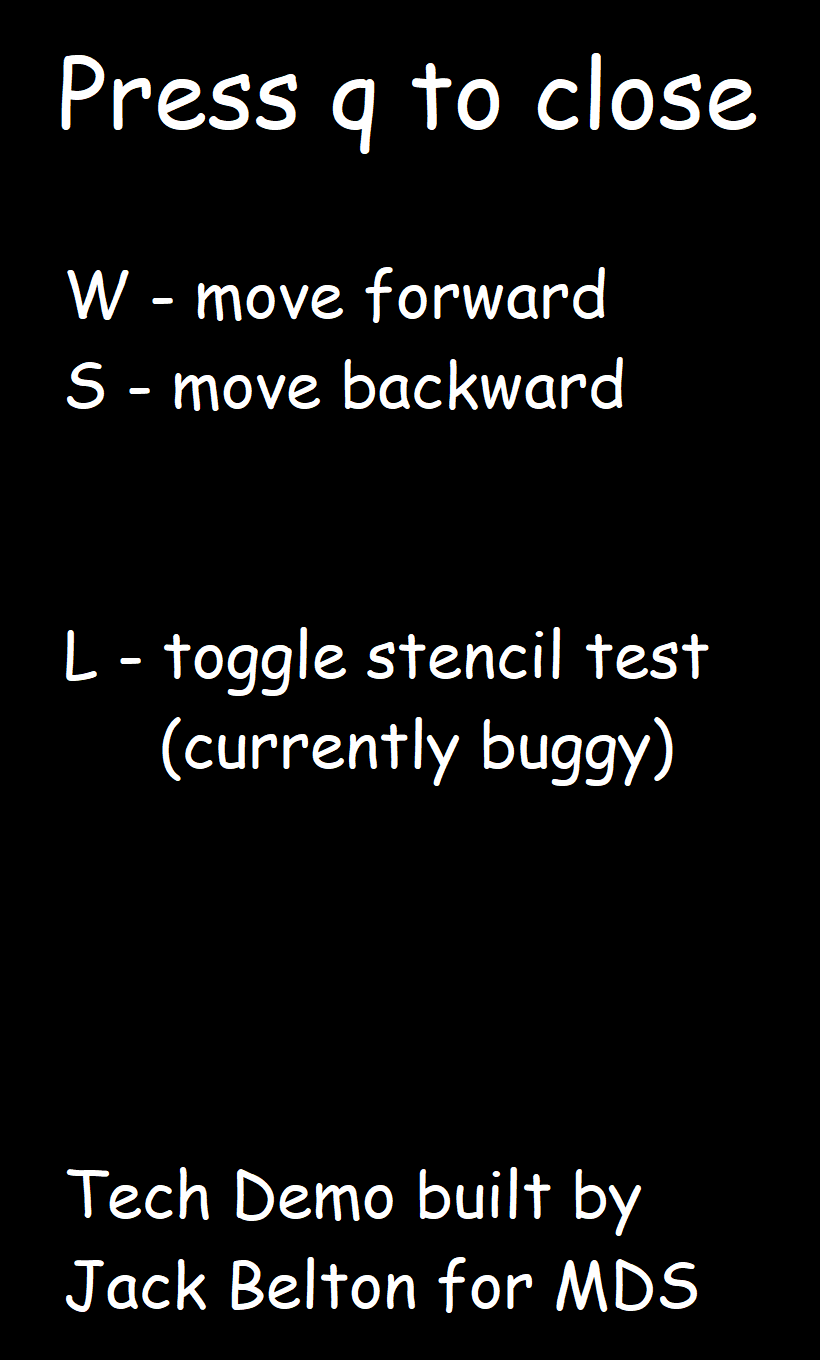
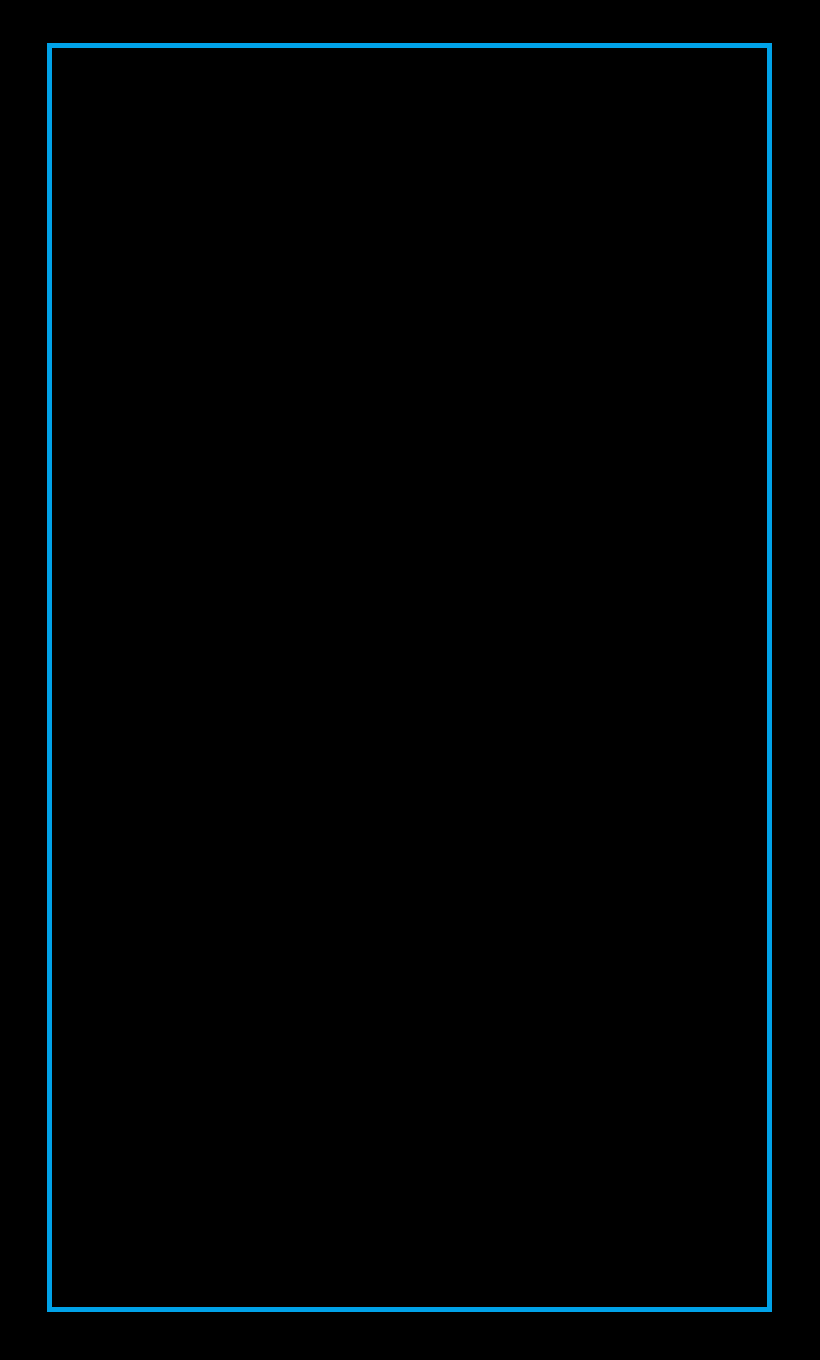
Cool

diff --git a/OpenGL-Framework/SceneManager.cpp b/OpenGL-Framework/SceneManager.cpp
@@ -31,109 +31,27 @@ void CSceneManager::Init()
 {
 	m_program = CProgrammerManager::GetInstance().GetProgram(DEFAULT);
 
-	/*Main OBJ*/
-	initinfo objInfo;
-	objInfo.imgFilepath = "Resources/egg.png";
-	objInfo.objPosition = glm::vec3(0.0f, 2.0f, 0.0f);
-	m_CubeObj = new CObject(DEFAULT, MESH_CUBE, objInfo);
-
-
-	/*Water*/
-	initinfo waterInfo;
-	waterInfo.objScale = glm::vec3(15.0f, 0.0f, 15.0f);
-	waterInfo.objPosition = glm::vec3(0.0f, -0.3f, 0.0f);
-	waterInfo.imgFilepath = "Resources/Textures/water.jpg";
-	waterInfo.alpha = 0.7f;
-	m_Water = new CObject(DEFAULT, MESH_CUBE, waterInfo);
-
-	/*Ground*/
-	initinfo stoneInfo;
-	stoneInfo.objScale = glm::vec3(15.0f, 0.0f, 15.0f);
-	stoneInfo.objPosition = glm::vec3(0.0f, -0.7f, 0.0f);
-	stoneInfo.imgFilepath = "Resources/Textures/stone.jpg";
-	m_StoneGround = new CObject(DEFAULT, MESH_CUBE, stoneInfo);
-
-	/*Altar*/
-	stoneInfo.objScale = glm::vec3(4.0f, 1.0f, 4.0f);
-	stoneInfo.objPosition = glm::vec3(0.0f, -0.1f, 0.0f);
-	m_StoneAltar = new CObject(DEFAULT, MESH_CUBE, stoneInfo);
-	m_Stencil = new CStencilObj(m_StoneAltar);
-
-	/*Summon Circle*/
-	initinfo summonInfo;
-	summonInfo.imgFilepath = "Resources/summoningcircle.png";
-	summonInfo.objPosition = glm::vec3(0.0f, 1.0f, 0.0f);
-	summonInfo.objScale = glm::vec3(3.5f, 0.0f, 3.5f);
-	m_SummonCircle = new CObject(DEFAULT, MESH_CUBE, summonInfo);
-
 	/*Menus and buttons*/
 	m_menutext = new TextLabel("Press Q for control list", "Resources/Fonts/arial.ttf", glm::vec2(132.0f, 72.0f));
-	m_menutext->SetScale(0.05f);
-
+	m_menutext->SetScale(0.06f);
+	m_menutext->SetPos({ 127.0f, 1.0f });
 	initinfo menuInfo;
 	menuInfo.objScale = glm::vec3(0.21f, 0.7f, 1.0f);
 	menuInfo.objPosition = glm::vec3(1.5f , 0.0f, 0.0f);
 	menuInfo.imgFilepath = "Resources/menu.png";
 	m_menuObj = new CObject(DEFAULT, MESH_2D_SPRITE, menuInfo);
 
-	initinfo backinfo;
-	backinfo.objScale = glm::vec3(0.05f, 0.09f, 0.01f);
-	backinfo.imgFilepath = "Resources/crate.jpg";
-	m_buttonBack = new CObject(DEFAULT, MESH_CUBE, backinfo);
-
-	initinfo buttonInfo;
-	buttonInfo.objScale = glm::vec3(0.02f, 0.02f, 0.01f);
-	buttonInfo.imgFilepath = "Resources/green.jpg";
-	m_button1 = new CObject(DEFAULT, MESH_CUBE, buttonInfo);
-
-	buttonInfo.imgFilepath = "Resources/red.jpg";
-	m_button2 = new CObject(DEFAULT, MESH_CUBE, buttonInfo);
-	/***********************************************************/
-
 	/*Camera Setup*/
-	CCameraManager::GetInstance().GetCam()->CamTarget(m_CubeObj->GetPos() - CCameraManager::GetInstance().GetCam()->GetCamPos());
-	CCameraManager::GetInstance().GetCam()->CamTranslate(glm::vec3(0.0f, 3.0f, 8.0f));
+	//CCameraManager::GetInstance().GetCam()->CamTarget(m_CubeObj->GetPos() - CCameraManager::GetInstance().GetCam()->GetCamPos());
+	//CCameraManager::GetInstance().GetCam()->CamTranslate(glm::vec3(0.0f, 3.0f, 8.0f));
 }
 
 void CSceneManager::Render()
 {
-	static bool lIsPressed;
-	static bool lState;
 
-	/*Stencil testing toggle. Never fixed the stencil testing :( */
-	if ((((CInput::GetInstance().GetKeyState('l') == INPUT_HOLD) || (CInput::GetInstance().GetKeyState('L') == INPUT_HOLD)) && !lIsPressed))
-	{
-		lIsPressed = true;
-		lState = !lState;
-	}
-	if ((CInput::GetInstance().GetKeyState('l') == INPUT_RELEASE) || (CInput::GetInstance().GetKeyState('L') == INPUT_RELEASE))
-	{
-		lIsPressed = false;
-	}
-
-	if (lState)
-	{
-		m_Stencil->Render();
-	}
-	else
-	{
-		m_StoneAltar->Render(CCameraManager::GetInstance().GetCam());
-	}
-
-
-	m_StoneGround->Render(CCameraManager::GetInstance().GetCam());
-	m_Water->Render(CCameraManager::GetInstance().GetCam());
-
-	m_SummonCircle->Render(CCameraManager::GetInstance().GetCam());
-	m_CubeObj->Render(CCameraManager::GetInstance().GetCam());
-
-	
 	m_menutext->Render();
 	m_menuObj->Render(CCameraManager::GetInstance().GetOrthoCam());
-	
-	m_buttonBack->Render(CCameraManager::GetInstance().GetCam());
-	m_button1->Render(CCameraManager::GetInstance().GetCam());
-	m_button2->Render(CCameraManager::GetInstance().GetCam());
+
 }
 
 void CSceneManager::Process()
@@ -158,77 +76,17 @@ void CSceneManager::Process()
 
 	if (menuState)
 	{
-		m_menuObj->Translate(lerpfunc(glm::vec3(1.5f, 0.0f, 0.0f), glm::vec3(0.8f, 0.0f, 0.0f), menuPerc));
+		m_menuObj->Translate(lerpfunc(glm::vec3(1.5f, 0.0f, 0.0f), glm::vec3(0.725f, 0.0f, 0.0f), menuPerc));
 	}
 	else
 	{
-		m_menuObj->Translate(lerpfunc(glm::vec3(0.8f, 0.0f, 0.0f), glm::vec3(1.5f, 0.0f, 0.0f), menuPerc));
+		m_menuObj->Translate(lerpfunc(glm::vec3(0.725f, 0.0f, 0.0f), glm::vec3(1.5f, 0.0f, 0.0f), menuPerc));
 	}
 
 	if (menuPerc < 1.0f)
 	{
 		menuPerc += 0.2f;
 	}
-
-	static float thecagepercent = 0.0f;
-	if (thecagepercent < 1.0f)
-	{
-		m_CubeObj->Translate(lerpfunc(glm::vec3(0.0f, 0.0f, 0.0f), glm::vec3(0.0f, 2.0f, 0.0f), thecagepercent)); //Raise up the cage
-		CCameraManager::GetInstance().GetCam()->CamTarget(m_CubeObj->GetPos() - CCameraManager::GetInstance().GetCam()->GetCamPos()); //Camera following
-		thecagepercent += 0.01f;
-	}
-
-	if (((CInput::GetInstance().GetKeyState('w') == INPUT_HOLD || (CInput::GetInstance().GetKeyState('W') == INPUT_HOLD)) //KeyPress Case
-		|| (CheckMouseCollision(m_button1) && CInput::GetInstance().GetMouseState(0) == INPUT_HOLD)) //On screen button press case
-		&& (CCameraManager::GetInstance().GetCam()->GetCamPos().z >= 2.0f)) //Keep camera within bounds
-	{
-		glm::vec3 camPos = CCameraManager::GetInstance().GetCam()->GetCamPos();
-		camPos.z -= 0.5f;
-		CCameraManager::GetInstance().GetCam()->CamTranslate(camPos);
-
-		m_button1->Alpha(0.5f);
-	}
-	else
-	{
-		m_button1->Alpha(1.0f);
-	}
-	if (((CInput::GetInstance().GetKeyState('s') == INPUT_HOLD || (CInput::GetInstance().GetKeyState('S') == INPUT_HOLD))//KeyPress Case
-		|| (CheckMouseCollision(m_button2) && CInput::GetInstance().GetMouseState(0) == INPUT_HOLD))//On screen button press case
-		&& (CCameraManager::GetInstance().GetCam()->GetCamPos().z <= 30.0f)) //Keep camera within bounds
-	{
-		glm::vec3 camPos = CCameraManager::GetInstance().GetCam()->GetCamPos();
-		camPos.z += 0.5f;
-		CCameraManager::GetInstance().GetCam()->CamTranslate(camPos);
-
-		m_button2->Alpha(0.5f);
-	}
-	else
-	{
-		m_button2->Alpha(1.0f);
-	}
-	
-	//ROTATE
-	static float rotDegrees = 0.0f;
-	rotDegrees += 1.0;
-	if (rotDegrees == 360.0f)
-	{
-		rotDegrees = 0.0f;
-	}
-	m_CubeObj->Rotation(rotDegrees, glm::vec3(0.0f, 1.0f, 0.0f));
-
-	glm::vec3 camPos = CCameraManager::GetInstance().GetCam()->GetCamPos();
-	camPos.z -= 0.45f;
-	camPos.y -= 0.08f;
-	camPos.x -= 0.35f;
-	m_buttonBack->Translate(camPos);
-
-	camPos.z += 0.08f;
-	camPos.y += 0.05f;
-	camPos.x += 0.05f;
-	m_button1->Translate(camPos);
-
-	camPos.y -= 0.07f;
-	m_button2->Translate(camPos);
 }
 
 //Takes a plane and point and evals position in regards to the plane

diff --git a/OpenGL-Framework/main.cpp b/OpenGL-Framework/main.cpp
@@ -22,7 +22,6 @@ int main(int argc, char **argv)
 	glutInit(&argc, argv);
 	glutInitDisplayMode(GLUT_DEPTH | GLUT_DOUBLE | GLUT_RGBA | GLUT_MULTISAMPLE);
 	
-	
 	glutInitWindowPosition((GLfloat)glutGet(GLUT_WINDOW_WIDTH) / 2, (GLfloat)glutGet(GLUT_WINDOW_HEIGHT) / 2);
 	glutInitWindowSize(1024, 576);
 	glutCreateWindow("The Red Room");
@@ -56,17 +55,10 @@ void init()
 
 void render()
 {
-
-	glEnable(GL_SCISSOR_TEST);
-	glScissor(0, 72, 1024, 432);
-
-
 	glClear(GL_COLOR_BUFFER_BIT | GL_DEPTH_BUFFER_BIT | GL_STENCIL_BUFFER_BIT);
 	glClearColor(0.5f, 0.5f, 0.5f, 1.0);
 
 	CSceneManager::GetInstance().Render();
-
-	glDisable(GL_SCISSOR_TEST);
 
 	glutSwapBuffers();
 }

diff --git a/OpenGL-Framework/SceneManager.h b/OpenGL-Framework/SceneManager.h
@@ -18,7 +18,6 @@
 #include "Model.h"
 #include "ShaderLoader.h"
 #include "AudioManager.h"
-#include "stencilObj.h"
 
 struct Plane
 {
@@ -78,21 +77,7 @@ private:
 	//Global input
 	CInput* m_pInput;
 
-	CStencilObj* m_Stencil;
-
-	CObject* m_CubeObj;
-	CObject* m_SummonCircle;
-
-	CObject* m_Water;
-
-	CObject* m_StoneGround;
-	CObject* m_StoneAltar;
-
 	CObject* m_menuObj;
-
-	CObject* m_buttonBack;
-	CObject* m_button1;
-	CObject* m_button2;
 
 	TextLabel* m_menutext;
 };

diff --git a/OpenGL-Framework/CTerrain.cpp b/OpenGL-Framework/CTerrain.cpp
@@ -1,0 +1,33 @@
+#include "CTerrain.h"
+
+
+
+CTerrain::CTerrain()
+{
+}
+
+
+CTerrain::~CTerrain()
+{
+}
+
+
+// Get the heightmap from the RAW file
+void CTerrain::loadHeightMap()
+{
+	// TODO: Add your implementation code here.
+}
+
+
+// Compute the average height of IJ
+float CTerrain::average(int i, int j)
+{
+	// TODO: Add your implementation code here.
+	return 0.0f;
+}
+
+
+void CTerrain::smooth()
+{
+	// TODO: Add your implementation code here.
+}

diff --git a/OpenGL-Framework/CTerrain.h b/OpenGL-Framework/CTerrain.h
@@ -1,0 +1,24 @@
+#pragma once
+#include "utils.h"
+
+
+class CTerrain
+{
+public:
+	CTerrain();
+	~CTerrain();
+private:
+	// Get the heightmap from the RAW file
+	void loadHeightMap();
+
+	// Compute the average height of IJ
+	float average(int i, int j);
+
+	//Smooth using this ^
+	void smooth();
+
+	std::vector<float> mHeightmap;
+
+public:
+};
+

diff --git a/OpenGL-Framework/object.h b/OpenGL-Framework/object.h
@@ -9,7 +9,7 @@
 #include "CCubeMap.h"
 #include <string>
 
-typedef struct 
+typedef struct OBJINIT
 {
 	std::string imgFilepath = "";
 	CCubeMap* _reflectCubemap = nullptr;
